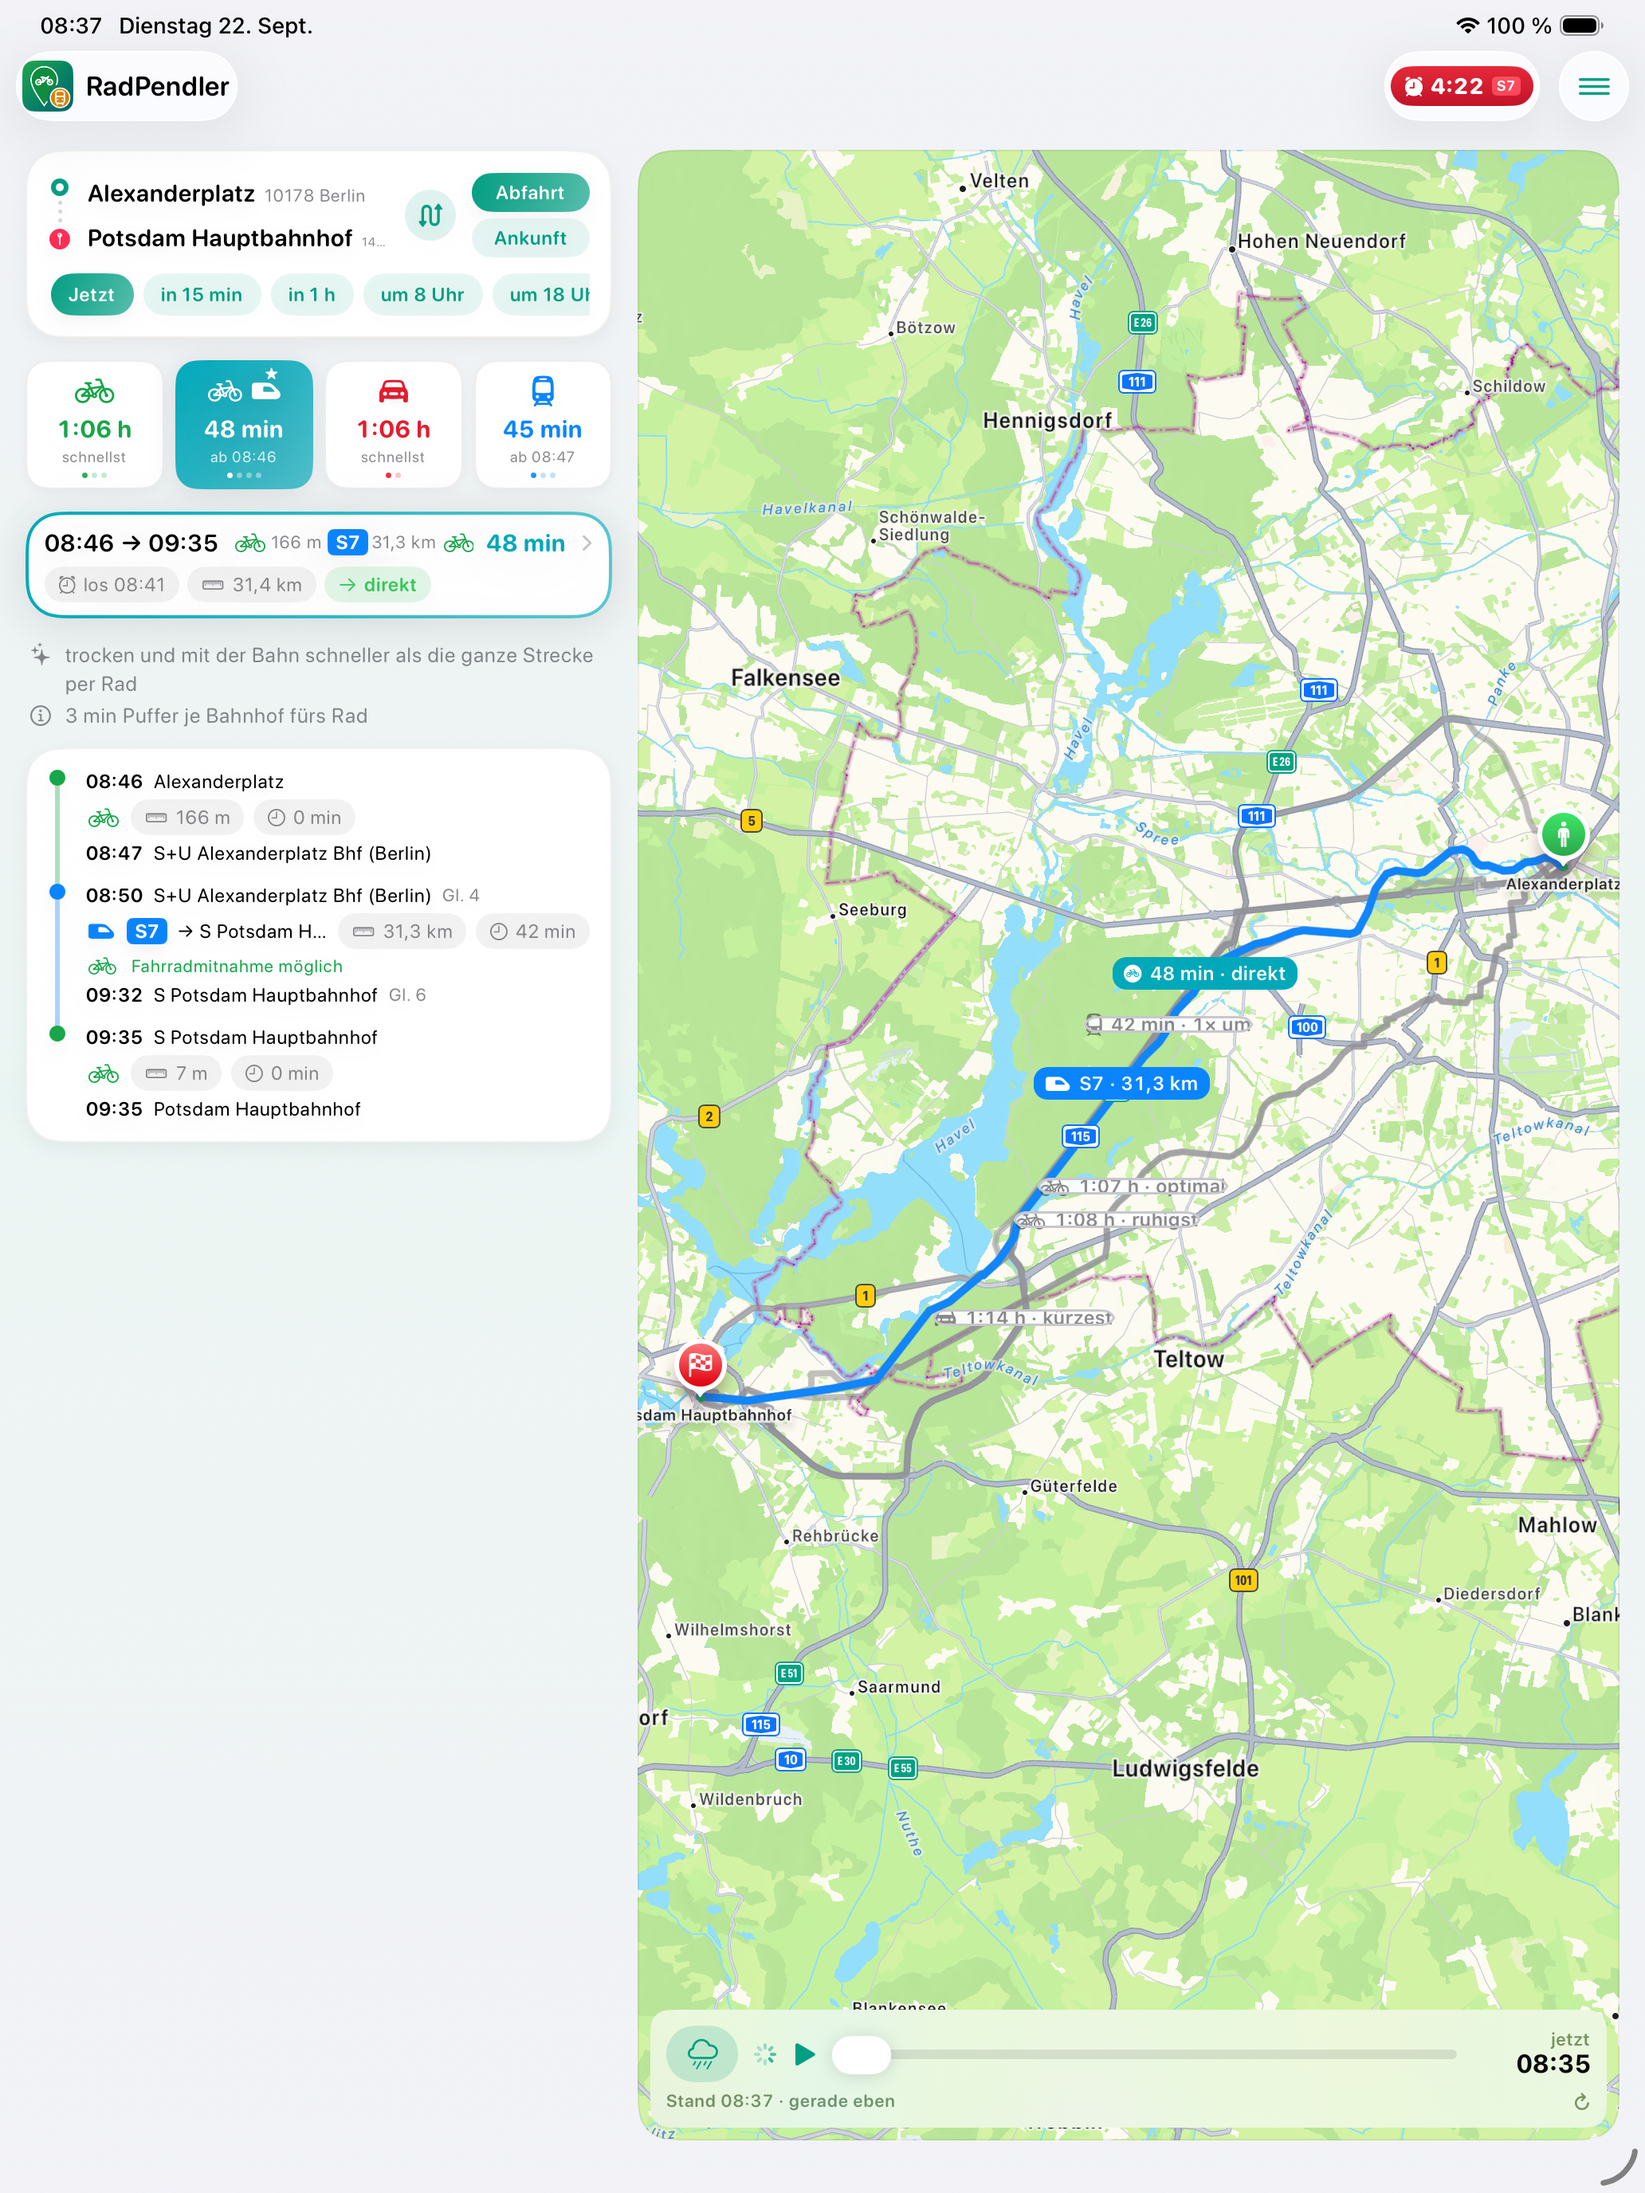
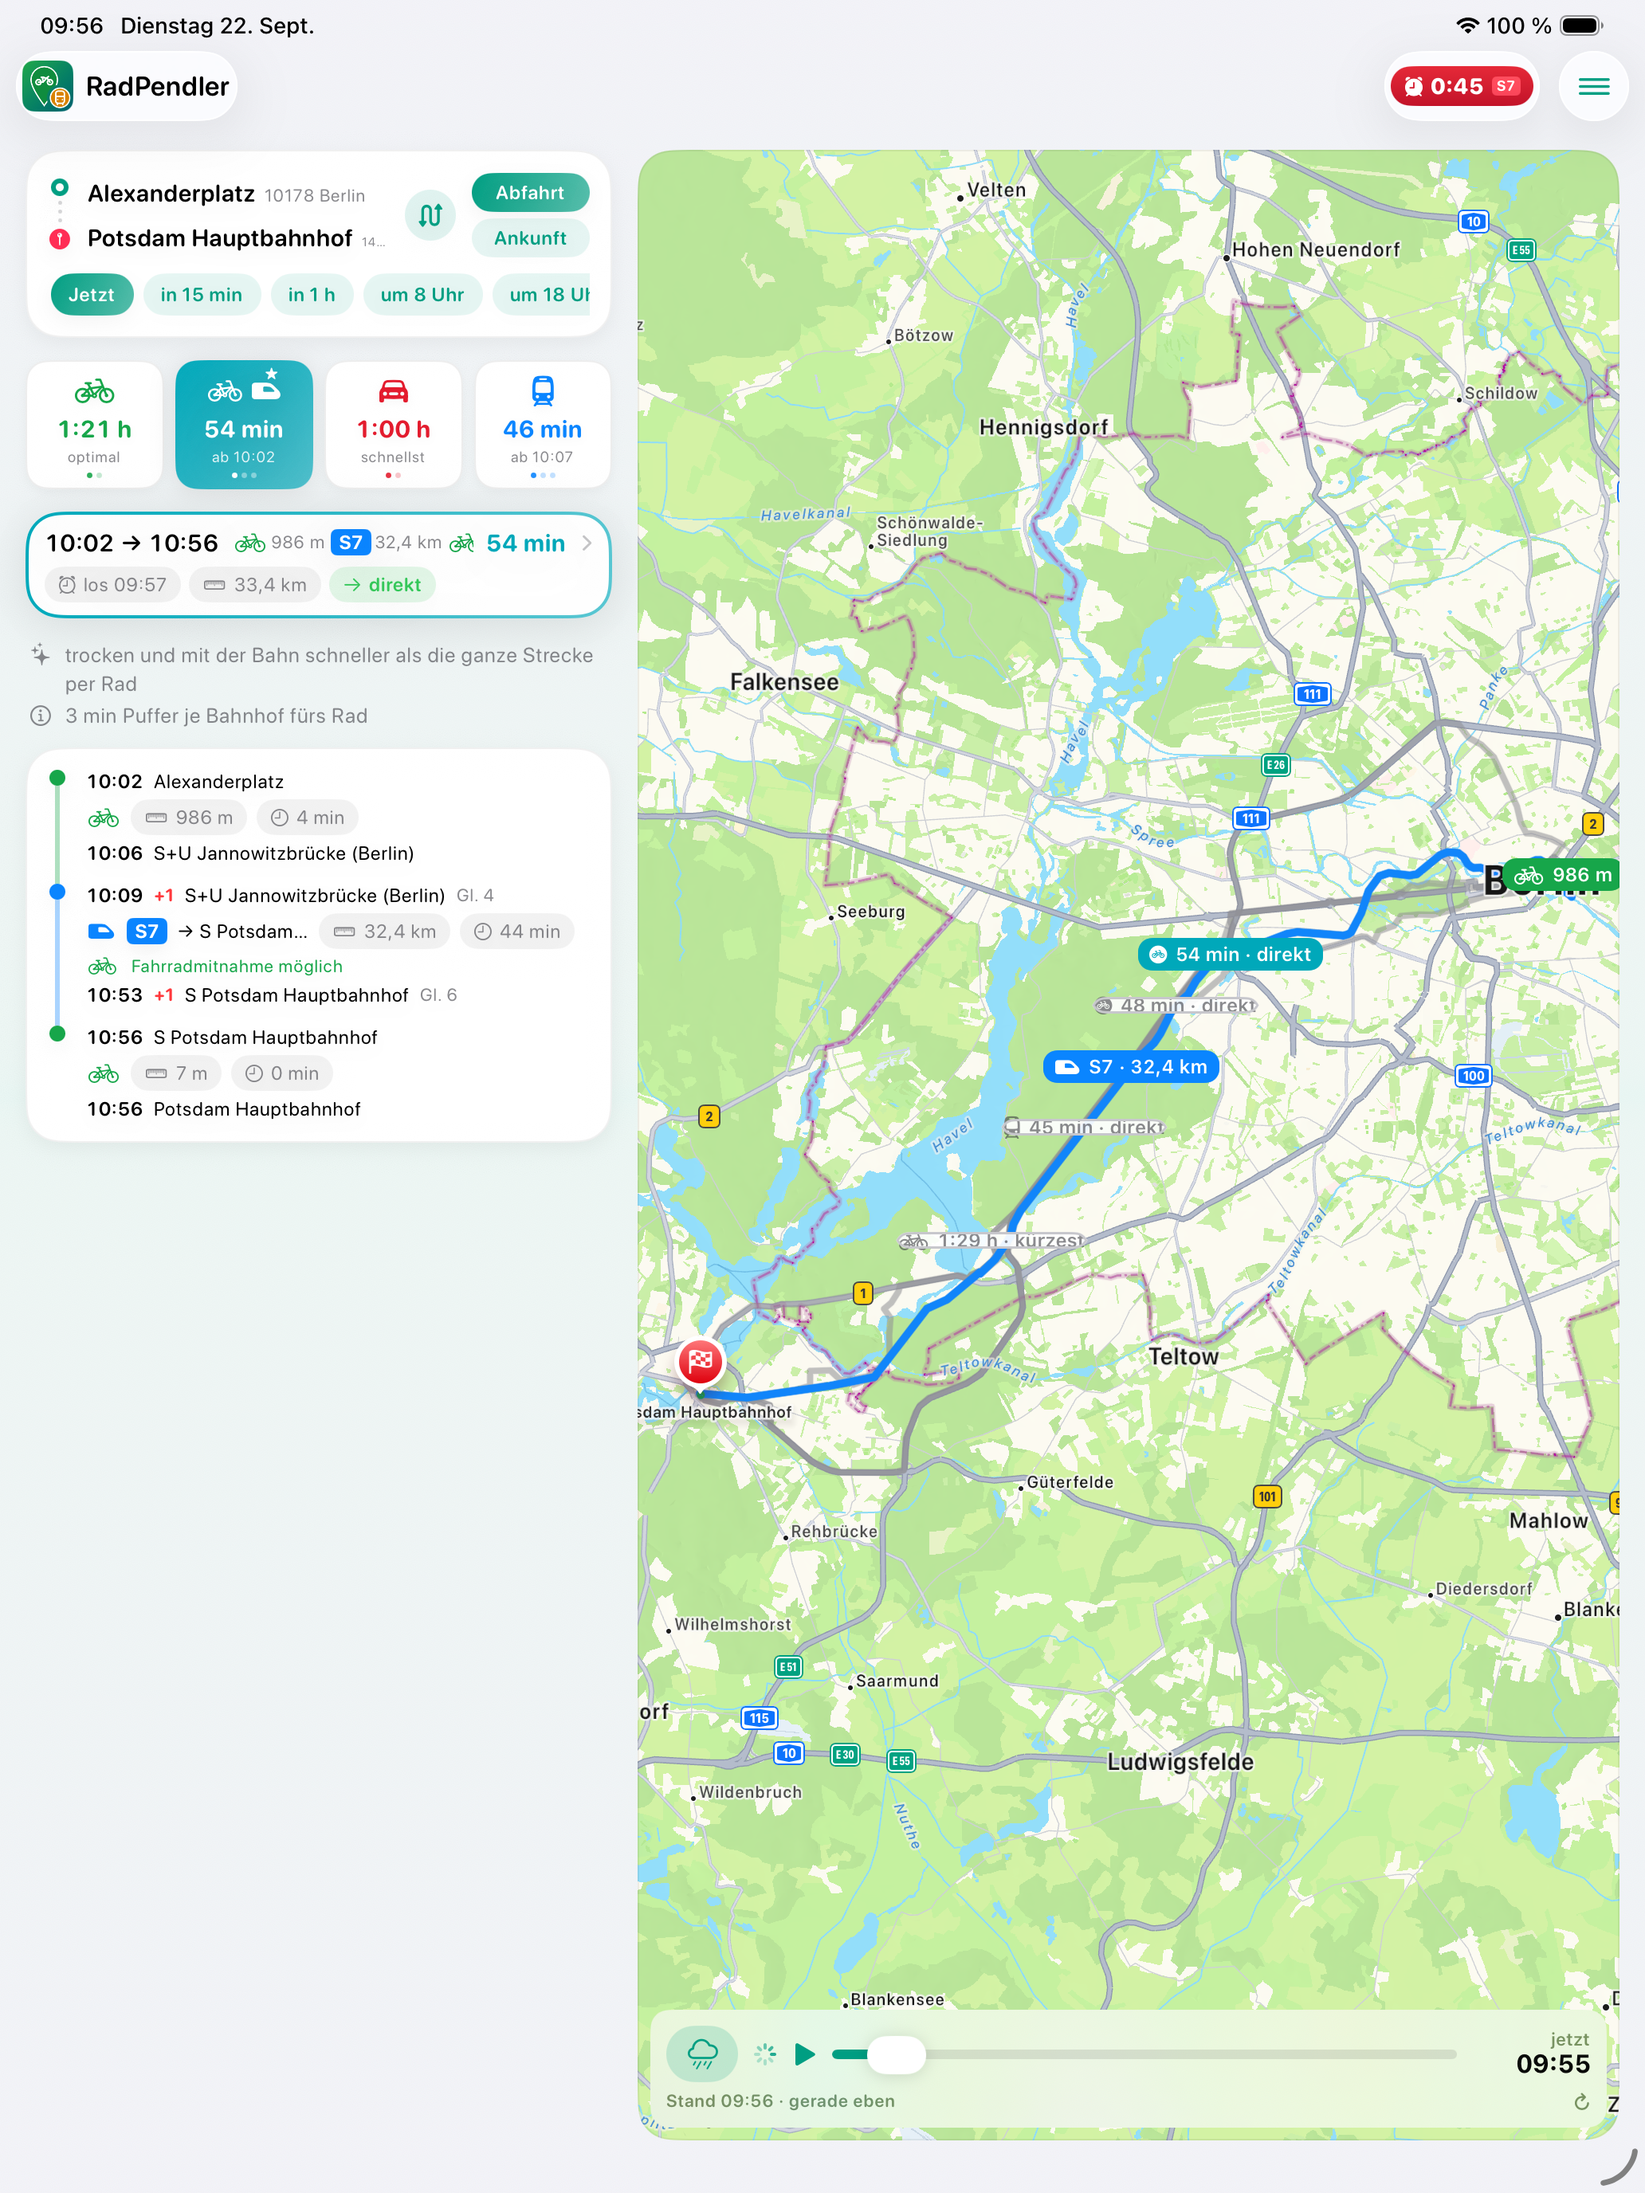
Store-Screenshots: Uhr dazu, iPad im Vollbild, Linienliste mit allen drei Zuständen
Neu: vier Aufnahmen der Watch-App in 416 × 496, dem Slot für die Series 10
(46 mm) — Countdown, Fahrt, Kategorien, Wege. Der eingespielte Plan trug
zunächst die echten Adressen des Nutzers; er ist jetzt Alexanderplatz →
Potsdam Hbf wie überall sonst.

Die zwei iPad-Aufnahmen, die das Einstellungsblatt über abgedunkelter Karte
zeigten, sind ersetzt: zwei Vollbilder mit verschiedenen Zielen, eines davon
Berlin → Hamburg, wo der ICE und „Fahrten von Transitous“ zeigen, dass die App
nicht an der Landesgrenze endet.

Die Fahrradmitnahme-Liste zeigt jetzt alle drei Zustände statt viermal „Rad
ja“. Dafür musste der iCloud-Schlüssel-Wert-Speicher des Simulators geleert
werden — er stellte die vorbestückte Liste sonst jedes Mal wieder her, was
umgekehrt ein schöner Beleg dafür ist, dass der Abgleich funktioniert.

Claude-Session: https://claude.ai/code/session_012Z6KPcZULXnUAa4augER35

diff --git a/appstore/metadata.md b/appstore/metadata.md
@@ -342,6 +342,22 @@ Overpass-Sperre und trug den Hinweis „Ampeln und Hauptstraßen unbekannt
 den Store. Beim nächsten Lauf, wenn Overpass wieder antwortet, nachholen und
 als `2-rad` einsortieren.
 
+### Apple Watch (46 mm) — 4 Bilder, 416 × 496
+
+App Store Connect hat für watchOS einen eigenen Satz. Die vier Aufnahmen aus
+`screenshots/watch-46/` in den Slot „Apple Watch Series 10 (46 mm)“:
+
+| Datei | Was darauf ist | Bildtext |
+|---|---|---|
+| `1-countdown.png` | Der Countdown in Gelb, Linie und Abfahrt → Ankunft | Wann losgehen — am Handgelenk |
+| `2-fahrt.png` | Die Fahrt mit allen Abschnitten, Zeiten und Kilometern | Jeder Abschnitt, jede Zeit |
+| `3-kategorien.png` | Die vier Kategorien mit bester Zeit und Zahl der Wege | Rad, Rad + Bahn, Auto, Bahn |
+| `4-wege.png` | Die Wege einer Kategorie zum Auswählen | Einen anderen Weg wählen |
+
+Die Uhr plant nichts selbst; sie zeigt den Plan des iPhones und zählt darauf
+herunter. Das gehört in den Bildtext, damit niemand eine eigenständige
+Uhren-App erwartet.
+
 ## Englische Fassung (Lokalisierung „Englisch (USA)“)
 
 ### Name (max 30)
